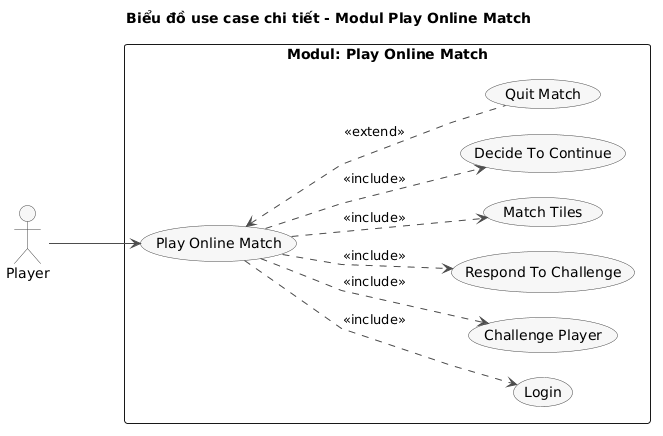
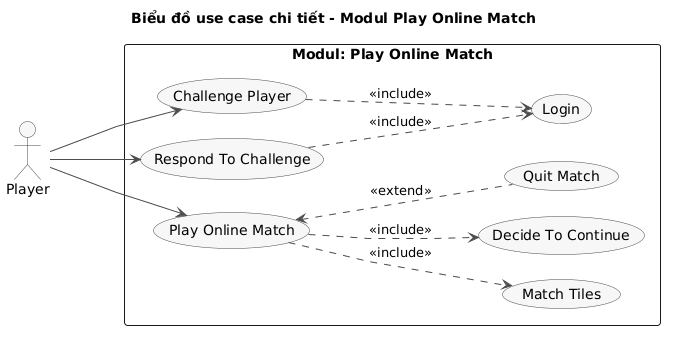
docs: split M4 into three use cases joined to Player
Including both Challenge Player and Respond To Challenge in Play Online
Match read as one player doing both. They are now separate use cases
that include Login; Play Online Match includes Match Tiles and Decide To
Continue. Restores Play With Bot, which the shared doc's Hình 1.1 lost.

diff --git a/docs/pha1-thu-thap-yeu-cau.md b/docs/pha1-thu-thap-yeu-cau.md
@@ -115,7 +115,7 @@ Từ bước 2 của mục 2, mọi chức năng đều do người chơi thực
 
 Mỗi chức năng ở bước 2 được đề xuất thành một use case. Sau khi mịn hóa:
 
-- Thách đấu, trả lời lời mời và chơi ván là các bước của cùng một phiên đấu đối kháng giữa hai người chơi: người thách đấu gửi lời mời, người được mời trả lời, rồi cả hai cùng chơi. Vì vậy chức năng này là một use case chính `Play Online Match` có cả hai người chơi tham gia, include `Challenge Player` (phần của người thách đấu) và `Respond To Challenge` (phần của người được mời). Mỗi lần thực hiện gồm đúng một lời mời và một lần trả lời: bị từ chối thì dừng sớm, cả hai chọn tiếp tục thì đấu thêm ván mà không mời lại.
+- Thách đấu, trả lời lời mời và chơi ván do những người chơi khác nhau thực hiện: người thách đấu gửi lời mời, người được mời trả lời, rồi cả hai cùng chơi. Nếu gộp thành một use case include cả hai việc đầu thì sẽ bị hiểu là một người chơi phải tự gửi và tự trả lời lời mời mới chơi được. Vì vậy chức năng này được tách thành ba use case nối thẳng với `Player`: `Challenge Player` (gửi lời mời thách đấu), `Respond To Challenge` (chấp nhận hoặc từ chối lời mời) và `Play Online Match` (chơi ván đối kháng, bắt đầu khi lời mời được chấp nhận; cả hai chọn tiếp tục thì đấu thêm ván mà không mời lại).
 - Xem danh sách người chơi online không tách thành use case riêng vì đây là giao diện chính sau khi đăng nhập, dùng để chọn đối thủ trong `Challenge Player`.
 
 Biểu đồ use case tổng quan như Hình 1.1.
@@ -131,7 +131,7 @@ Biểu đồ use case tổng quan như Hình 1.1.
 | 3 | `Logout` | Cho phép người chơi đăng xuất khỏi hệ thống |
 | 4 | `View Ranking` | Cho phép người chơi xem bảng xếp hạng toàn bộ người chơi |
 | 5 | `Play With Bot` | Cho phép người chơi chọn độ khó và chơi một ván với máy |
-| 6 | `Play Online Match` | Cho phép hai người chơi thách đấu nhau và đấu đối kháng trên cùng đề bài, server làm trọng tài |
+| 6 | `Play Online Match` | Cho phép hai người chơi đấu đối kháng trên cùng đề bài sau khi lời mời được chấp nhận, server làm trọng tài |
 | 7 | `Challenge Player` | Cho phép người chơi chọn một người chơi không bận, xác nhận và gửi lời mời đấu |
 | 8 | `Respond To Challenge` | Cho phép người được mời chấp nhận hoặc từ chối lời mời thách đấu |
 
@@ -212,7 +212,9 @@ Trong chức năng thách đấu, hai người chơi tương tác với các gia
 - Dialog lời mời trên máy người được mời → thống nhất với UC `Respond To Challenge`.
 - Giao diện bàn chơi → đề xuất UC `Match Tiles`; nút Thoát → đề xuất UC `Quit Match`.
 - Dialog kết quả hỏi có muốn tiếp tục không → đề xuất UC `Decide To Continue`.
-- Mỗi phiên đấu luôn cần hai người chơi đã đăng nhập, một lời mời, một lần trả lời, các lượt nối cặp ô và lựa chọn tiếp tục hay dừng ở cuối mỗi ván, do đó `Play Online Match` include `Login`, `Challenge Player`, `Respond To Challenge`, `Match Tiles` và `Decide To Continue`.
+- `Challenge Player`, `Respond To Challenge` và `Play Online Match` giữ là ba use case nối thẳng với `Player` như ở biểu đồ tổng quan, vì người thách đấu chỉ gửi lời mời còn người được mời chỉ trả lời.
+- Phải đăng nhập mới thách đấu hoặc nhận lời mời được, do đó `Challenge Player` và `Respond To Challenge` include `Login`. `Play Online Match` chỉ bắt đầu khi lời mời đã được chấp nhận nên không include `Login` lần nữa.
+- Mỗi ván đối kháng luôn gồm các lượt nối cặp ô và lựa chọn tiếp tục hay dừng khi ván kết thúc, do đó `Play Online Match` include `Match Tiles` và `Decide To Continue`. Cả hai chọn tiếp tục thì đấu thêm ván với cùng đối thủ mà không mời lại.
 - Thoát giữa ván không bắt buộc và có thể xảy ra bất cứ lúc nào trong ván, kể cả trước khi nối cặp nào, do đó `Quit Match` extend `Play Online Match`.
 - `Match Tiles` và `Quit Match` dùng chung với modul chơi với máy.
 
@@ -224,8 +226,8 @@ Biểu đồ use case chi tiết như Hình 1.5.
 
 | Use case | Mô tả |
 |---|---|
-| `Play Online Match` | Cho phép hai người chơi thách đấu nhau và đấu một phiên đối kháng trên cùng đề bài, server làm trọng tài, lưu kết quả và cập nhật điểm |
-| `Login` | Cho phép người chơi đăng nhập trước khi thách đấu hoặc nhận lời mời |
+| `Play Online Match` | Cho phép hai người chơi đấu đối kháng trên cùng đề bài sau khi lời mời được chấp nhận, server làm trọng tài, lưu kết quả và cập nhật điểm |
+| `Login` | Cho phép người chơi đăng nhập trước khi thách đấu hoặc trả lời lời mời |
 | `Challenge Player` | Cho phép người chơi chọn một đối thủ không bận trong danh sách người chơi online, xác nhận rồi gửi lời mời |
 | `Respond To Challenge` | Cho phép người được mời chấp nhận hoặc từ chối lời mời |
 | `Match Tiles` | Cho phép người chơi click lần lượt hai ô cùng hình để xóa chúng nếu nối được bằng tối đa 3 đoạn thẳng |
